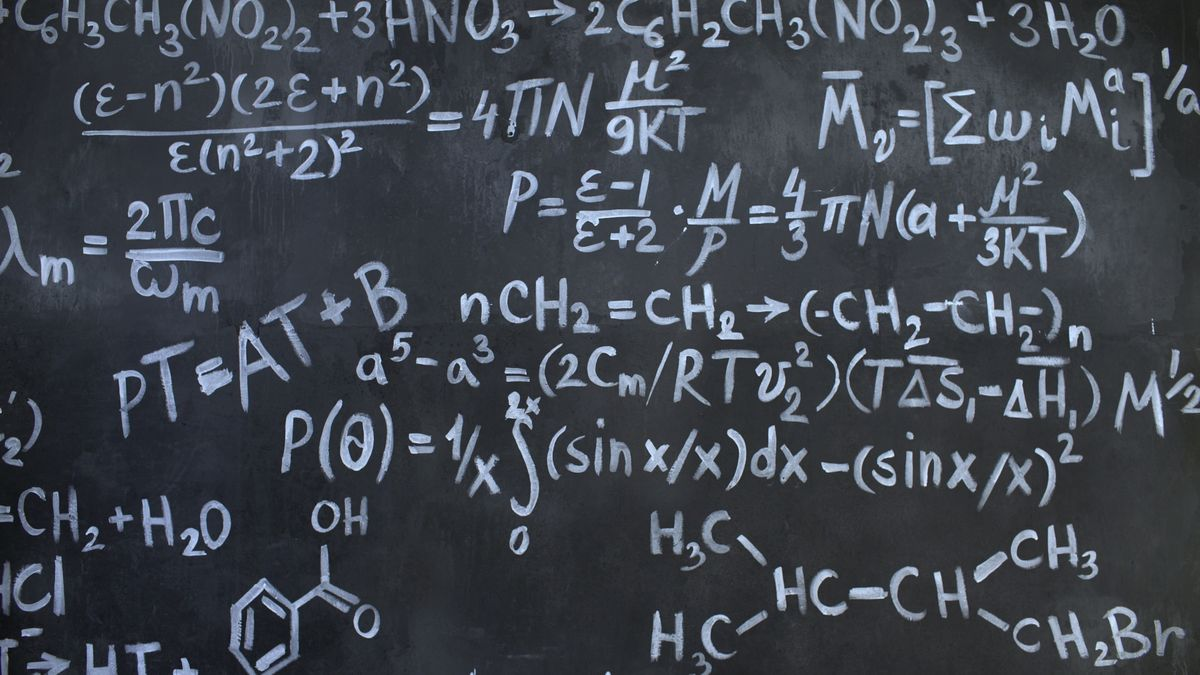
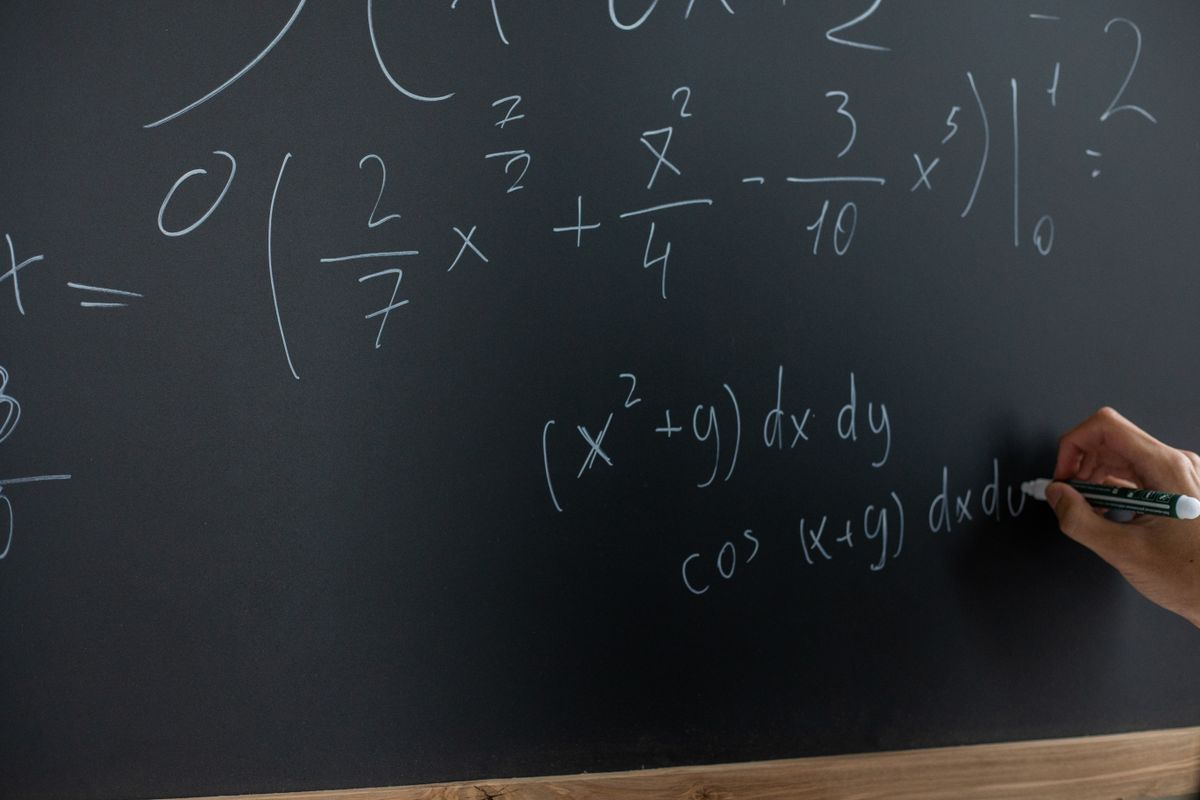
Ensret kortstørrelser og opdater billeder
- Skift .card-grid til auto-fill i stedet for auto-fit, så et enkelt kort
  (Matematik, Valgfag, Biologi) får samme bredde som når der er nok kort
  til at fylde en hel række, i stedet for at blive strukket ud
- Fjern de tre "Under udarbejdelse"-placeholder-kort under Biologi
- Skift Matematik-kortets billede til et rent matematikbillede uden kemi
- Nyt (beskåret) billede på "gange og division"-kortet fra egen video

diff --git a/biologi.html b/biologi.html
@@ -42,30 +42,6 @@
         <p>Lær om padder, krybdyr og alle de andre klasser af hvirveldyr.</p>
       </div>
     </a>
-    <div class="card disabled">
-      <div class="card-img"><img src="assets/images/product3.jpg" alt=""></div>
-      <div class="card-body">
-        <h3 class="card-title">Under udarbejdelse</h3>
-        <p>Det bli'r godt :)</p>
-        <span class="badge">Kommer snart</span>
-      </div>
-    </div>
-    <div class="card disabled">
-      <div class="card-img"><img src="assets/images/hvaler-600x165.jpg" alt=""></div>
-      <div class="card-body">
-        <h3 class="card-title">Under udarbejdelse</h3>
-        <p>Det bli'r godt :)</p>
-        <span class="badge">Kommer snart</span>
-      </div>
-    </div>
-    <div class="card disabled">
-      <div class="card-img"><img src="assets/images/blade20knopper-800x1102.jpg" alt=""></div>
-      <div class="card-body">
-        <h3 class="card-title">Under udarbejdelse</h3>
-        <p>Det bli'r godt :)</p>
-        <span class="badge">Kommer snart</span>
-      </div>
-    </div>
   </div>
 </div>
 

diff --git a/assets/css/style.css b/assets/css/style.css
@@ -163,7 +163,10 @@ img { max-width: 100%; display: block; }
 
 .card-grid {
   display: grid;
-  grid-template-columns: repeat(auto-fit, minmax(260px, 1fr));
+  /* auto-fill (ikke auto-fit) reserverer usynlige "tomme" kolonner, så et
+     enkelt kort får samme bredde som når der er nok kort til at fylde en
+     hel række — i stedet for at blive strukket ud til fuld bredde. */
+  grid-template-columns: repeat(auto-fill, minmax(260px, 1fr));
   gap: 1.5rem;
   padding: 3rem 0 4rem;
 }
@@ -174,8 +177,6 @@ img { max-width: 100%; display: block; }
   overflow: hidden;
   display: flex;
   flex-direction: column;
-  width: 100%;
-  max-width: 380px;
 }
 
 a.card { color: inherit; text-decoration: none !important; }

diff --git a/matematik.html b/matematik.html
@@ -36,7 +36,7 @@
 <div class="wrap">
   <div class="card-grid">
     <a class="card" href="gange-division-paa-papir.html">
-      <div class="card-img"><img src="assets/images/matematik-tavle.jpg" alt="Matematiske formler skrevet på en tavle"></div>
+      <div class="card-img"><img src="assets/images/gange-division-thumb.jpg" alt="Håndskrevet division opstillet på papir" style="object-position: top;"></div>
       <div class="card-body">
         <h3 class="card-title">Hjælp til gange og division på papir</h3>
         <p>To videoer der viser, hvordan man ganger og dividerer i hånden.</p>
